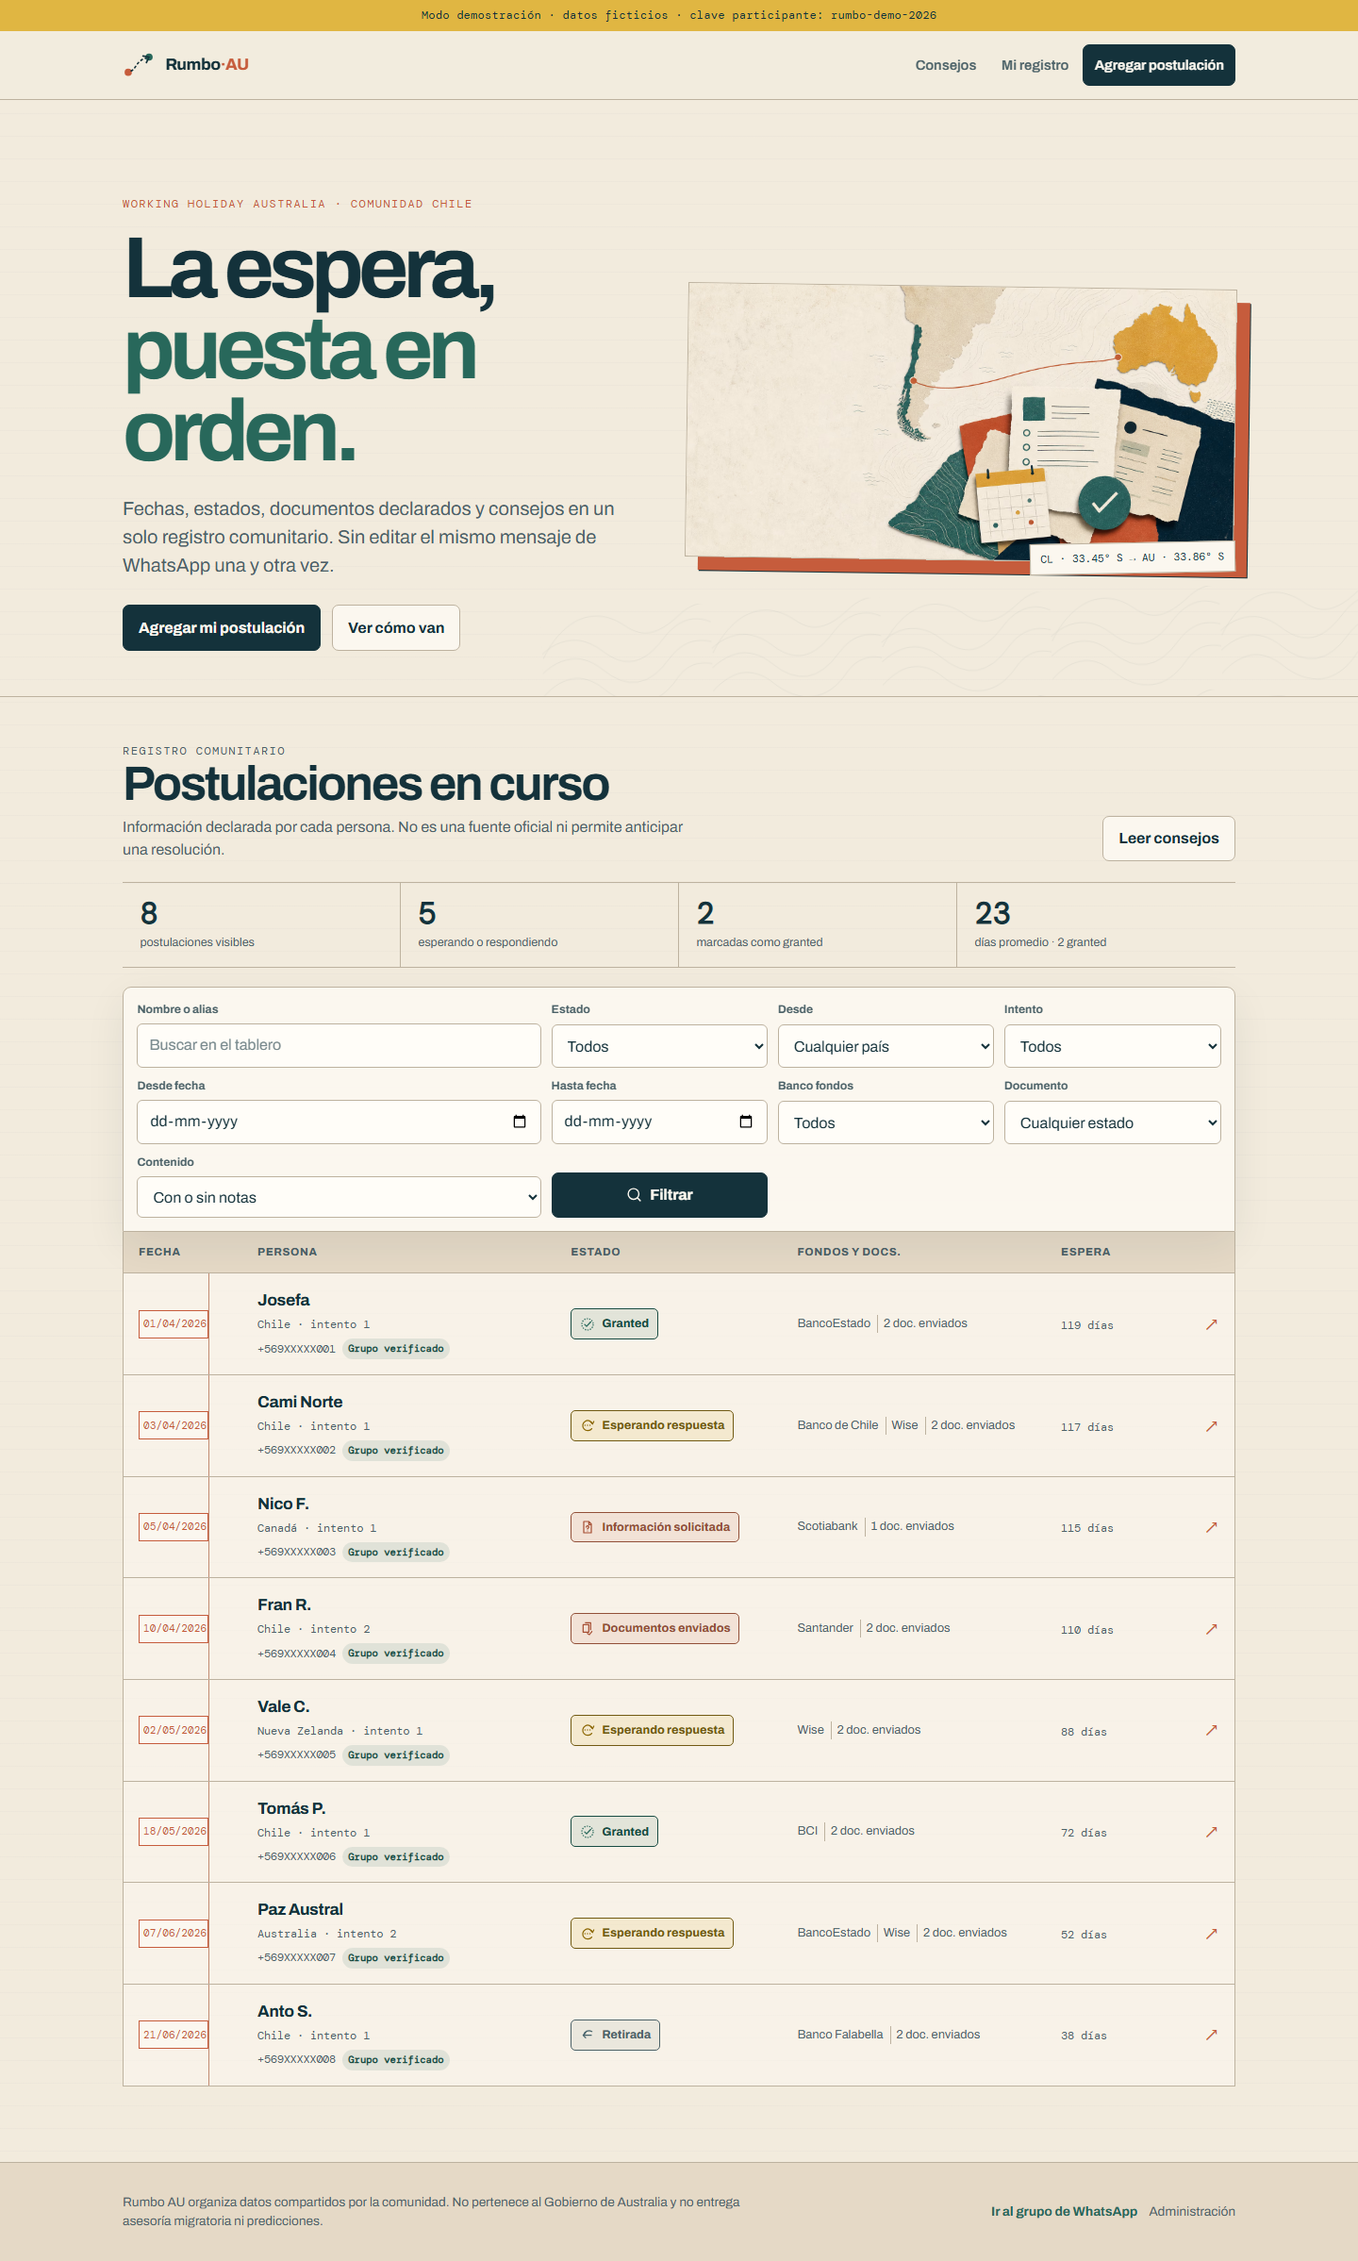
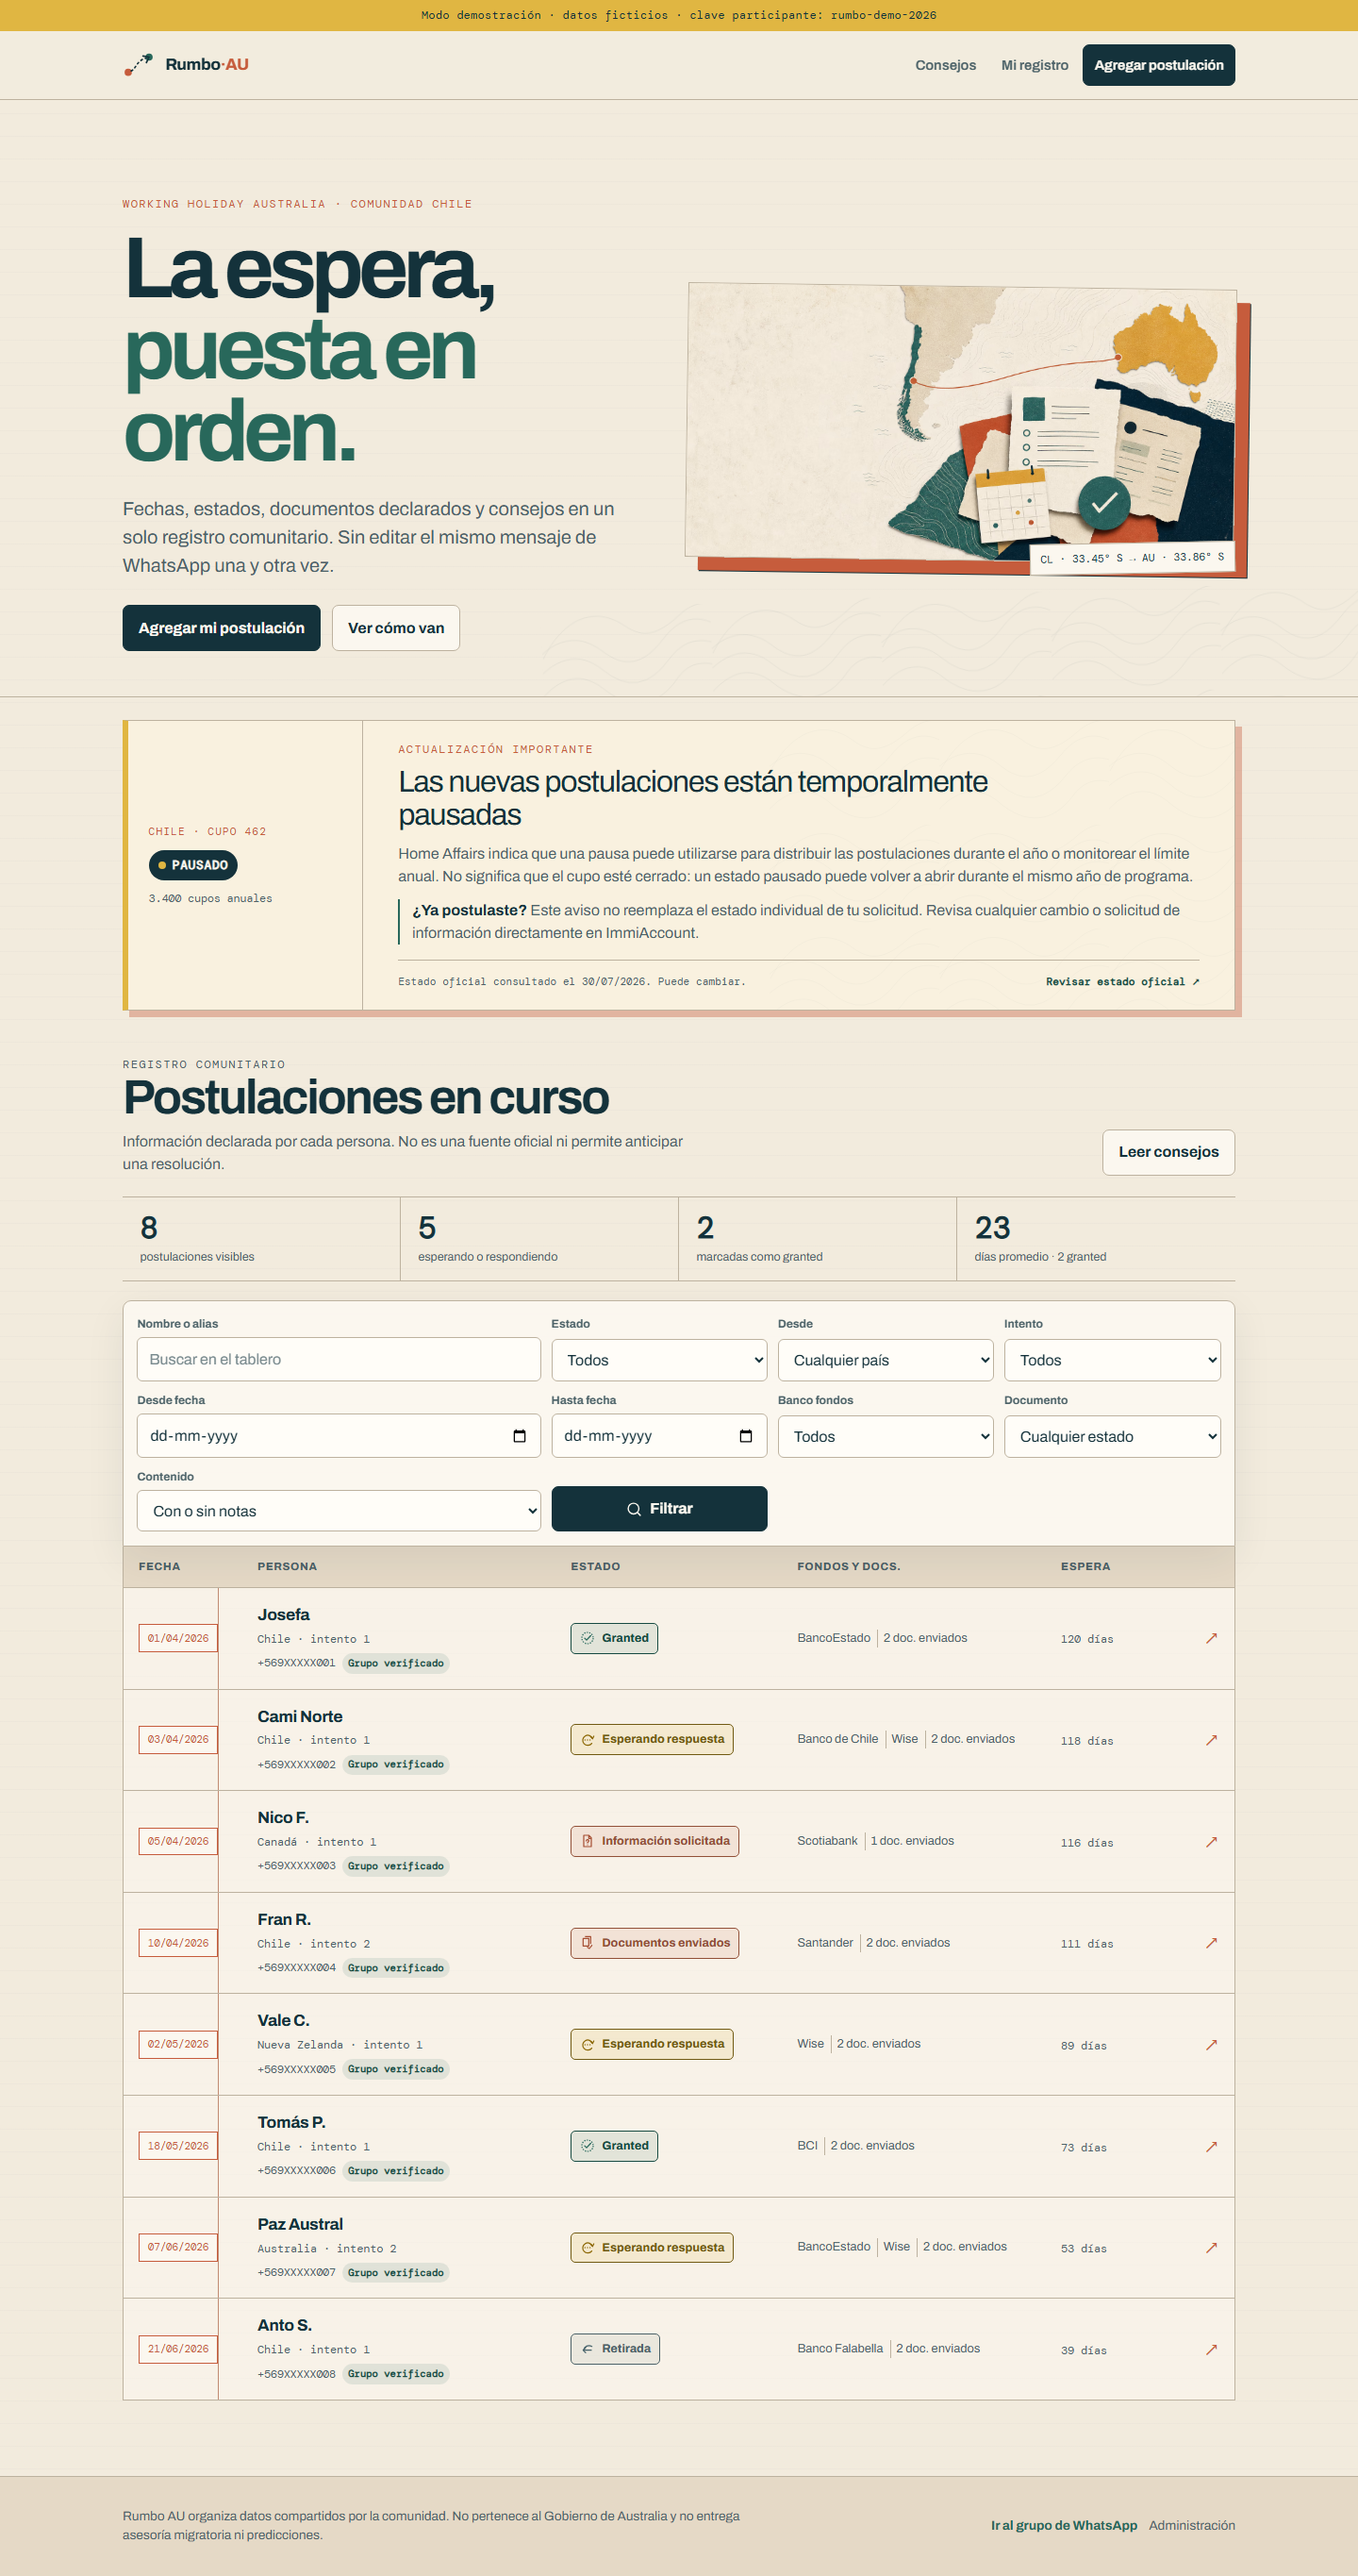
Add Chile cap notice and fix date rail

diff --git a/app/globals.css b/app/globals.css
@@ -286,6 +286,135 @@ a {
   transform: rotate(-1deg);
 }
 
+.cap-notice-wrap {
+  padding-top: 1.5rem;
+}
+
+.cap-notice {
+  position: relative;
+  display: grid;
+  grid-template-columns: minmax(185px, 0.27fr) minmax(0, 1fr);
+  overflow: hidden;
+  border: 1px solid var(--line);
+  border-left: 6px solid var(--sun);
+  background: color-mix(in srgb, var(--sun) 9%, var(--paper-light));
+  box-shadow: 7px 7px 0 color-mix(in srgb, var(--terracotta) 38%, transparent);
+}
+
+.cap-notice::after {
+  content: "";
+  position: absolute;
+  inset: 0 0 auto 58%;
+  height: 100%;
+  opacity: 0.12;
+  background: url("/visuals/topographic-pattern.svg") repeat;
+  pointer-events: none;
+}
+
+.cap-notice-status,
+.cap-notice-body {
+  position: relative;
+  z-index: 1;
+}
+
+.cap-notice-status {
+  display: flex;
+  flex-direction: column;
+  align-items: flex-start;
+  justify-content: center;
+  gap: 0.7rem;
+  padding: 1.35rem;
+  border-right: 1px solid var(--line);
+}
+
+.cap-notice-label,
+.cap-notice-status > span:last-child,
+.cap-notice-meta {
+  font-family: var(--font-mono);
+}
+
+.cap-notice-label {
+  color: var(--terracotta);
+  font-size: 0.7rem;
+  letter-spacing: 0.1em;
+  text-transform: uppercase;
+}
+
+.cap-notice-status strong {
+  display: inline-flex;
+  align-items: center;
+  gap: 0.45rem;
+  padding: 0.42rem 0.62rem;
+  border-radius: 999px;
+  color: var(--paper-light);
+  background: var(--ink);
+  font-family: var(--font-mono);
+  font-size: 0.8rem;
+  letter-spacing: 0.06em;
+  text-transform: uppercase;
+}
+
+.cap-notice-status strong span {
+  width: 0.5rem;
+  height: 0.5rem;
+  border-radius: 50%;
+  background: var(--sun);
+}
+
+.cap-notice-status > span:last-child {
+  color: var(--ink-soft);
+  font-size: 0.72rem;
+}
+
+.cap-notice-body {
+  padding: 1.35rem clamp(1.25rem, 3vw, 2.3rem);
+}
+
+.cap-notice-body .eyebrow {
+  margin-bottom: 0.55rem;
+}
+
+.cap-notice-body h2 {
+  max-width: 760px;
+  margin: 0;
+  font-size: clamp(1.35rem, 3vw, 2rem);
+  letter-spacing: -0.035em;
+  line-height: 1.08;
+}
+
+.cap-notice-body > p:not(.eyebrow) {
+  max-width: 880px;
+  margin: 0.75rem 0 0;
+  color: var(--ink-soft);
+}
+
+.cap-notice-guidance {
+  padding-left: 0.8rem;
+  border-left: 2px solid var(--eucalyptus);
+}
+
+.cap-notice-guidance strong {
+  color: var(--ink);
+}
+
+.cap-notice-meta {
+  display: flex;
+  flex-wrap: wrap;
+  align-items: center;
+  justify-content: space-between;
+  gap: 0.65rem 1rem;
+  margin-top: 1rem;
+  padding-top: 0.85rem;
+  border-top: 1px solid var(--line);
+  color: var(--ink-soft);
+  font-size: 0.7rem;
+}
+
+.cap-notice-meta a {
+  color: var(--eucalyptus-dark);
+  font-weight: 700;
+}
+
 .button {
   min-height: 46px;
   display: inline-flex;
@@ -629,7 +758,7 @@ a {
 }
 
 .ledger-row {
-  --date-box-width: 74px;
+  --date-box-width: 84px;
   --ledger-inline-padding: 1rem;
 
   position: relative;
@@ -662,12 +791,14 @@ a {
   position: relative;
   z-index: 1;
   width: var(--date-box-width);
-  padding: 0.4rem 0.25rem;
+  padding: 0.4rem 0.15rem;
   border: 1px solid var(--terracotta);
   color: var(--terracotta);
   background: var(--paper-light);
   font-family: var(--font-mono);
   font-size: 0.7rem;
+  font-variant-numeric: tabular-nums;
+  letter-spacing: -0.025em;
   line-height: 1.35;
   text-align: center;
   white-space: nowrap;
@@ -1222,6 +1353,10 @@ a {
       9px 9px 0 var(--ink);
   }
 
+  .cap-notice {
+    grid-template-columns: 170px minmax(0, 1fr);
+  }
+
   .filters {
     position: relative;
     grid-template-columns: repeat(3, 1fr);
@@ -1295,6 +1430,38 @@ a {
   .route-caption {
     right: 0.45rem;
     bottom: 0.45rem;
+  }
+
+  .cap-notice-wrap {
+    padding-top: 1rem;
+  }
+
+  .cap-notice {
+    grid-template-columns: 1fr;
+    box-shadow: 5px 5px 0 color-mix(in srgb, var(--terracotta) 38%, transparent);
+  }
+
+  .cap-notice-status {
+    flex-direction: row;
+    flex-wrap: wrap;
+    align-items: center;
+    justify-content: flex-start;
+    padding: 1rem;
+    border-right: 0;
+    border-bottom: 1px solid var(--line);
+  }
+
+  .cap-notice-status > span:last-child {
+    margin-left: auto;
+  }
+
+  .cap-notice-body {
+    padding: 1.15rem 1rem 1.25rem;
+  }
+
+  .cap-notice-meta {
+    align-items: flex-start;
+    flex-direction: column;
   }
 
   .metrics-strip {

diff --git a/app/page.tsx b/app/page.tsx
@@ -7,6 +7,9 @@ import { daysBetween, parseBoardFilters } from "@/lib/domain/format";
 
 export const dynamic = "force-dynamic";
 
+const COUNTRY_CAP_SOURCE =
+  "https://immi.homeaffairs.gov.au/what-we-do/whm-program/status-of-country-caps";
+
 export default async function Home({
   searchParams,
 }: {
@@ -91,6 +94,45 @@ export default async function Home({
           </div>
         </div>
       </section>
+
+      <div className="page-width cap-notice-wrap">
+        <aside className="cap-notice" aria-labelledby="cap-notice-title">
+          <div className="cap-notice-status">
+            <span className="cap-notice-label">Chile · cupo 462</span>
+            <strong>
+              <span aria-hidden="true" />
+              Pausado
+            </strong>
+            <span>3.400 cupos anuales</span>
+          </div>
+          <div className="cap-notice-body">
+            <p className="eyebrow">Actualización importante</p>
+            <h2 id="cap-notice-title">
+              Las nuevas postulaciones están temporalmente pausadas
+            </h2>
+            <p>
+              Home Affairs indica que una pausa puede utilizarse para distribuir
+              las postulaciones durante el año o monitorear el límite anual. No
+              significa que el cupo esté cerrado: un estado pausado puede volver
+              a abrir durante el mismo año de programa.
+            </p>
+            <p className="cap-notice-guidance">
+              <strong>¿Ya postulaste?</strong> Este aviso no reemplaza el estado
+              individual de tu solicitud. Revisa cualquier cambio o solicitud de
+              información directamente en ImmiAccount.
+            </p>
+            <div className="cap-notice-meta">
+              <span>
+                Estado oficial consultado el{" "}
+                <time dateTime="2026-07-30">30/07/2026</time>. Puede cambiar.
+              </span>
+              <a href={COUNTRY_CAP_SOURCE} target="_blank" rel="noreferrer">
+                Revisar estado oficial <span aria-hidden="true">↗</span>
+              </a>
+            </div>
+          </div>
+        </aside>
+      </div>
 
       <section className="page-width board-section" id="tablero">
         <div className="section-heading">

diff --git a/e2e/public-board.spec.ts b/e2e/public-board.spec.ts
@@ -9,6 +9,16 @@ test("public board filters and opens a detail", async ({ page }) => {
   await waitForHydration(page);
   await expect(page.getByRole("heading", { name: /La espera/i })).toBeVisible();
   await expect(page.getByText("Modo demostración")).toBeVisible();
+  await expect(
+    page.getByRole("heading", {
+      name: "Las nuevas postulaciones están temporalmente pausadas",
+    }),
+  ).toBeVisible();
+  await expect(page.getByText("3.400 cupos anuales")).toBeVisible();
+  await expect(page.getByRole("link", { name: /Revisar estado oficial/ })).toHaveAttribute(
+    "href",
+    /^https:\/\/immi\.homeaffairs\.gov\.au\/what-we-do\/whm-program\/status-of-country-caps/,
+  );
   await expect(page.getByText("23", { exact: true })).toBeVisible();
   await expect(page.getByText("+569XXXXX001").first()).toBeVisible();
   await expect(page.getByText("Grupo verificado").first()).toBeVisible();
